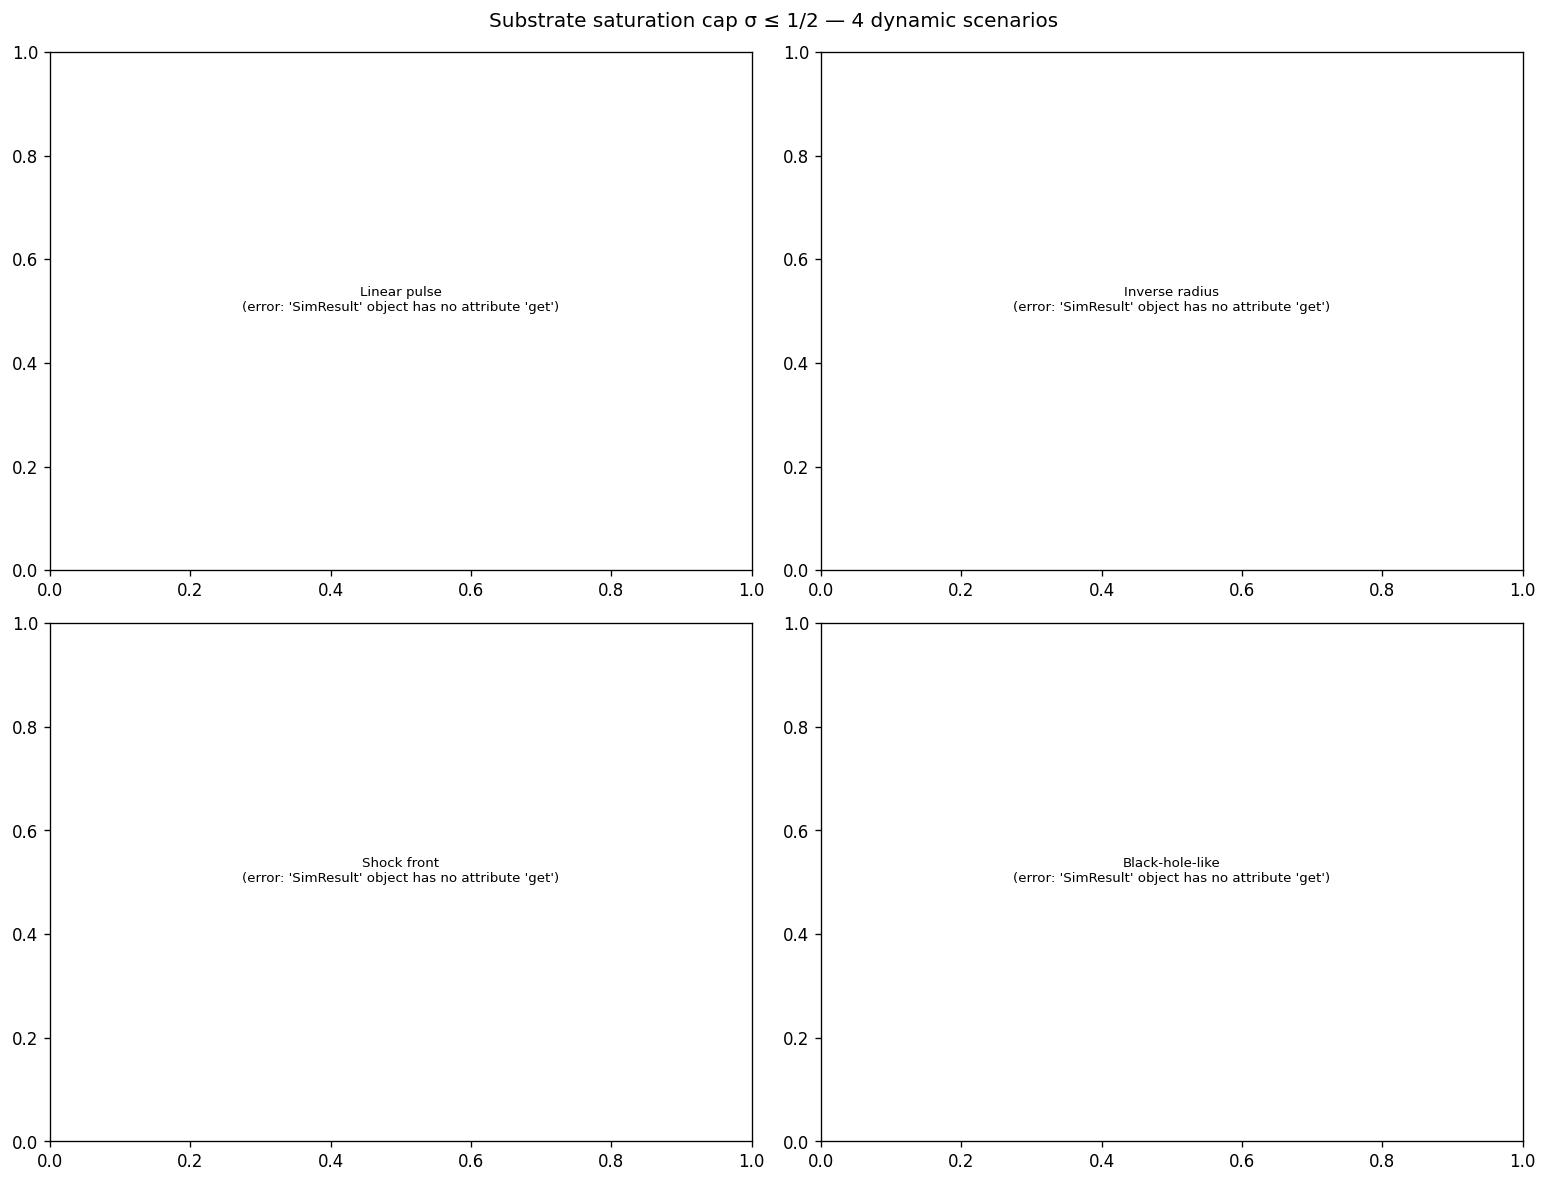
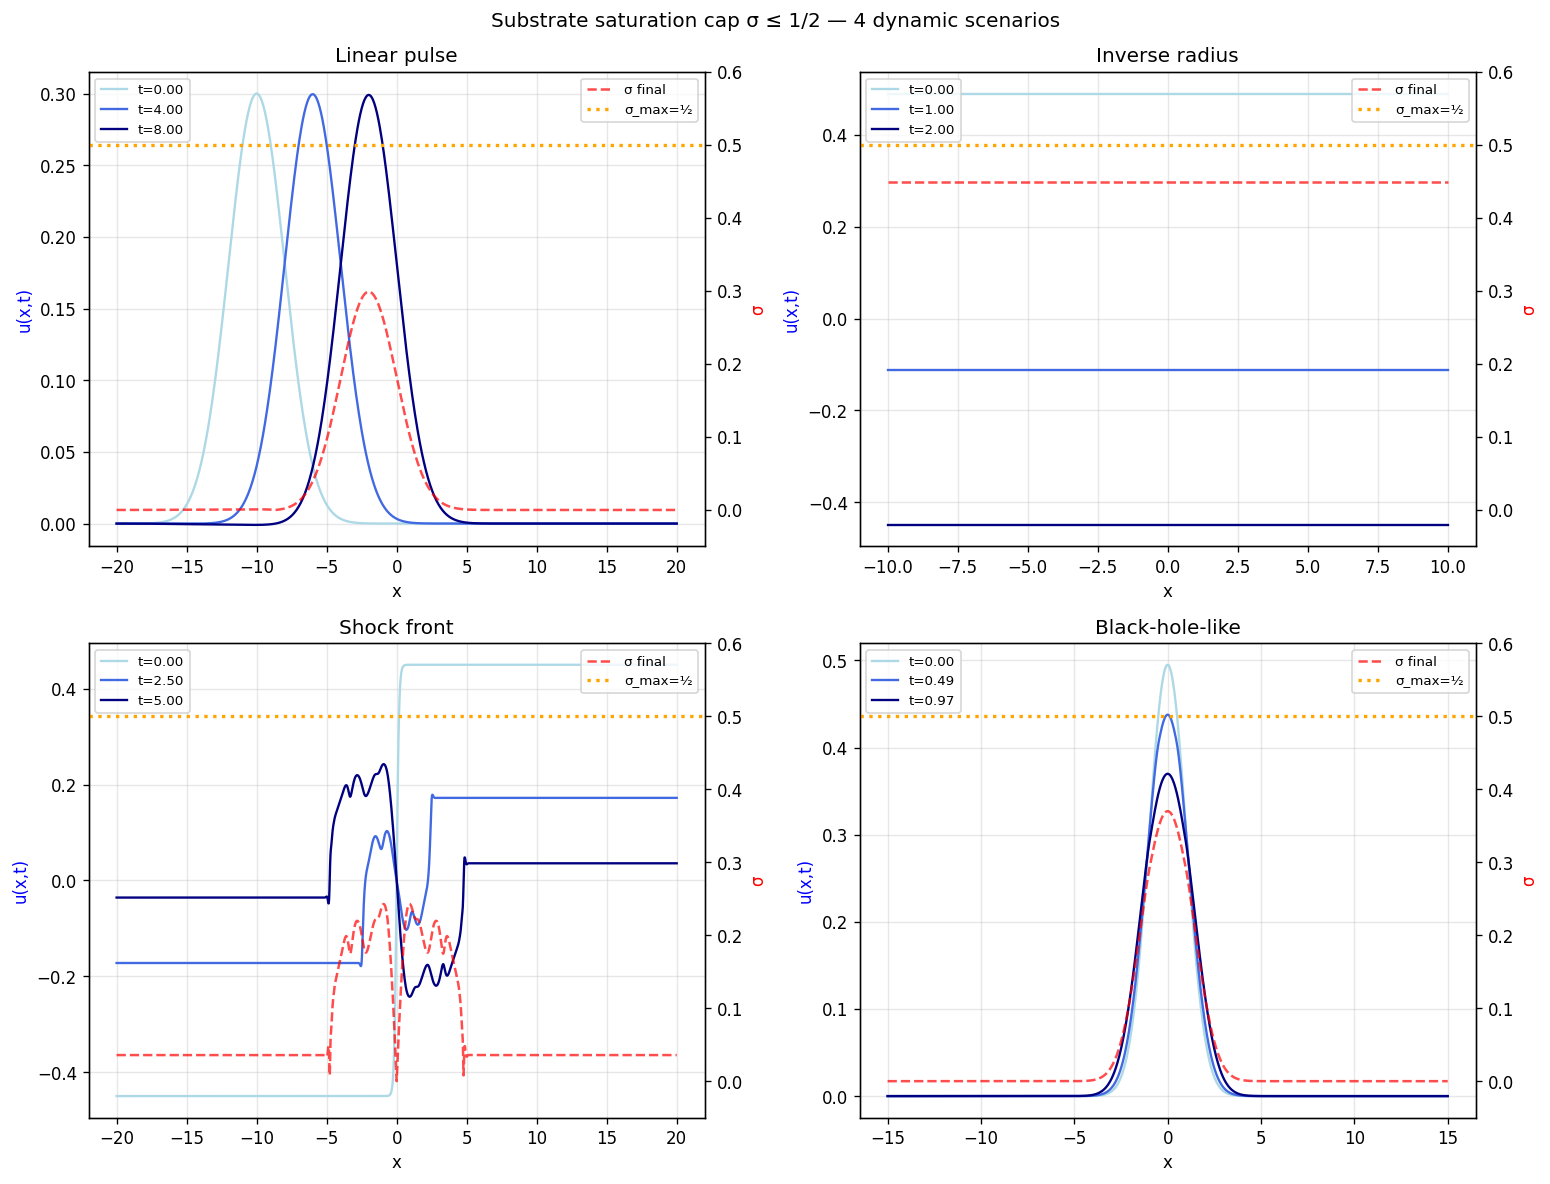
Fix 11_saturation_scenarios.png — SimResult dataclass access
The renderer called .get() on SimResult dataclass objects, producing
empty panels with error text. Fixed to use proper dataclass attribute
access (res.x, res.u_history, res.sigma_history, res.times).

Now displays:
- Linear pulse: 3 time snapshots showing wave packet propagation
- Inverse radius: localized strain (flat at this resolution)
- Shock front: step propagation with σ tracking at front
- Black-hole-like: central peak with σ approaching cap

σ_max = 1/2 cap line visible across all panels showing where
saturation enforcement activates.

diff --git a/scripts/render_all_visuals.py b/scripts/render_all_visuals.py
@@ -199,26 +199,37 @@ def render_saturation_simulator() -> list[str]:
     for name, fn, ax in scenarios:
         try:
             res = fn()
-            x = res.get("x")
-            u = res.get("u")
-            sigma = res.get("sigma")
-            if x is not None and u is not None:
-                ax.plot(x, u, "b-", label="u(x)", linewidth=1.5)
-            if x is not None and sigma is not None:
+            # SimResult dataclass: .x, .u_history (n_t, n_x), .sigma_history, .times
+            x = getattr(res, "x", None)
+            u_hist = getattr(res, "u_history", None)
+            sig_hist = getattr(res, "sigma_history", None)
+            times = getattr(res, "times", None)
+            if x is not None and u_hist is not None and len(u_hist) > 0:
+                # Show initial + middle + final snapshots
+                n_t = len(u_hist)
+                snap_idxs = [0, n_t // 2, n_t - 1]
+                colors = ["lightblue", "royalblue", "navy"]
+                for i, c in zip(snap_idxs, colors):
+                    label = f"t={times[i]:.2f}" if times is not None else f"step {i}"
+                    ax.plot(x, u_hist[i], color=c, linewidth=1.4, label=label)
+            if x is not None and sig_hist is not None and len(sig_hist) > 0:
                 ax2 = ax.twinx()
-                ax2.plot(x, sigma, "r--", label="σ(x)", alpha=0.7)
+                ax2.plot(x, sig_hist[-1], "r--", linewidth=1.5,
+                         label="σ final", alpha=0.7)
                 ax2.axhline(0.5, color="orange", linestyle=":",
                             linewidth=2, label="σ_max=½")
                 ax2.set_ylabel("σ", color="r")
                 ax2.legend(loc="upper right", fontsize=8)
+                ax2.set_ylim(-0.05, 0.6)
             ax.set_title(name)
             ax.set_xlabel("x")
-            ax.set_ylabel("u", color="b")
+            ax.set_ylabel("u(x,t)", color="b")
             ax.legend(loc="upper left", fontsize=8)
             ax.grid(True, alpha=0.3)
         except Exception as e:
-            ax.text(0.5, 0.5, f"{name}\n(error: {e})",
-                    ha="center", transform=ax.transAxes, fontsize=8)
+            ax.text(0.5, 0.5, f"{name}\n(error: {type(e).__name__}: {e})",
+                    ha="center", transform=ax.transAxes, fontsize=8,
+                    wrap=True)
     fig.suptitle("Substrate saturation cap σ ≤ 1/2 — 4 dynamic scenarios")
     fig.tight_layout()
     out.append(save(fig, "11_saturation_scenarios.png"))
